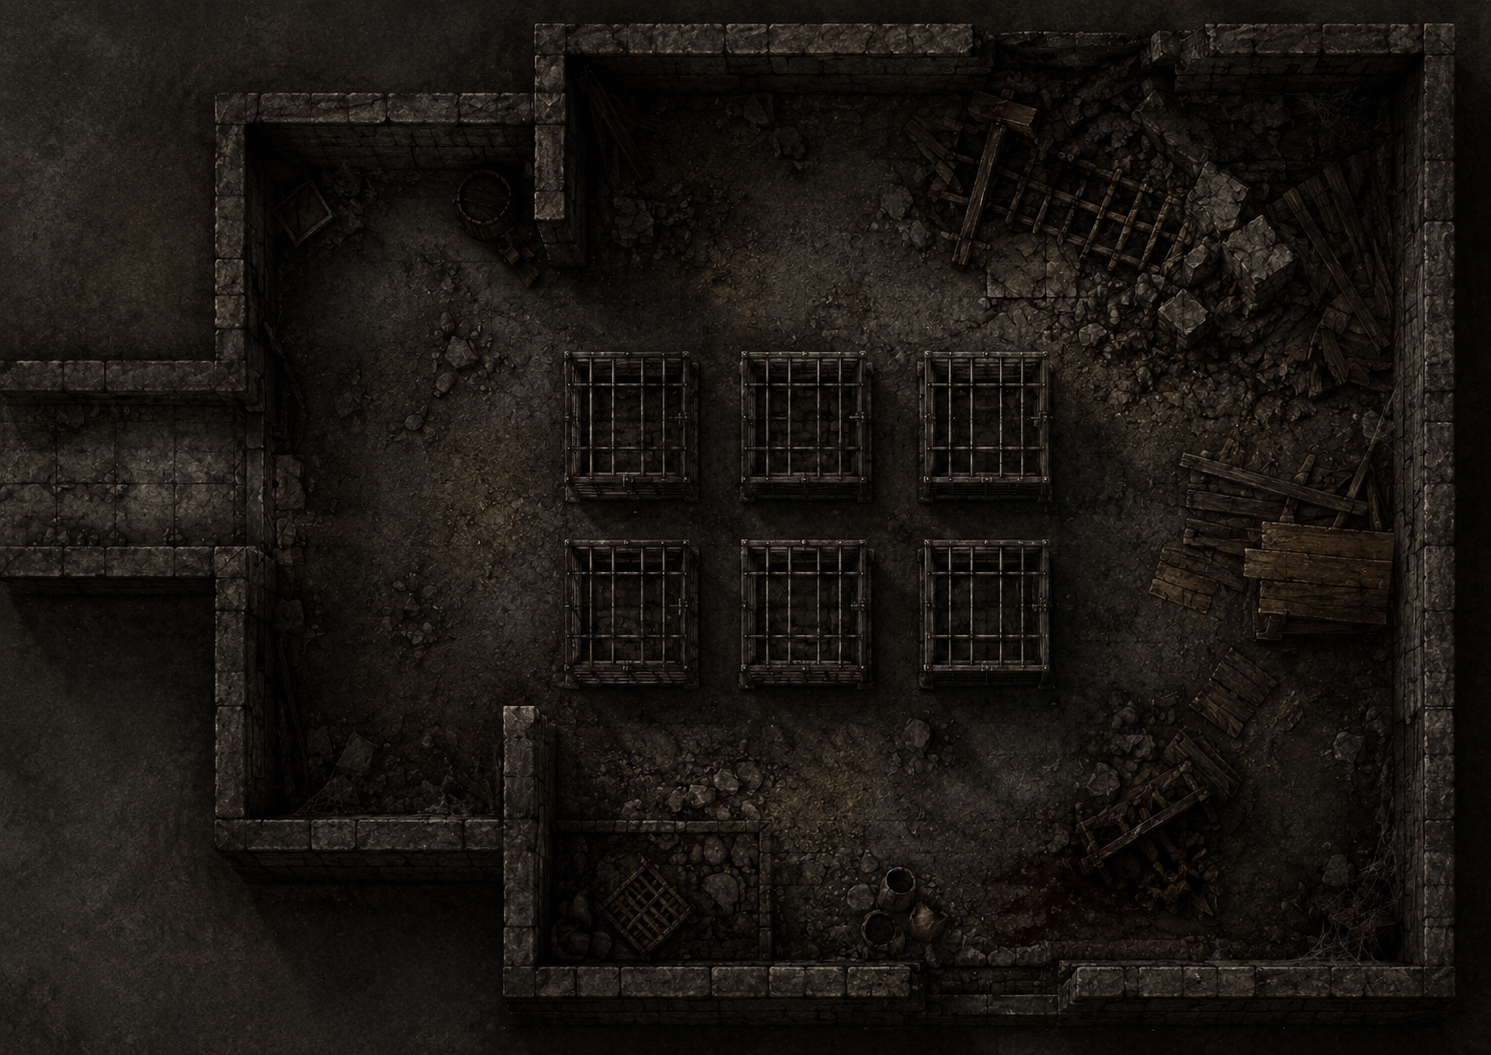
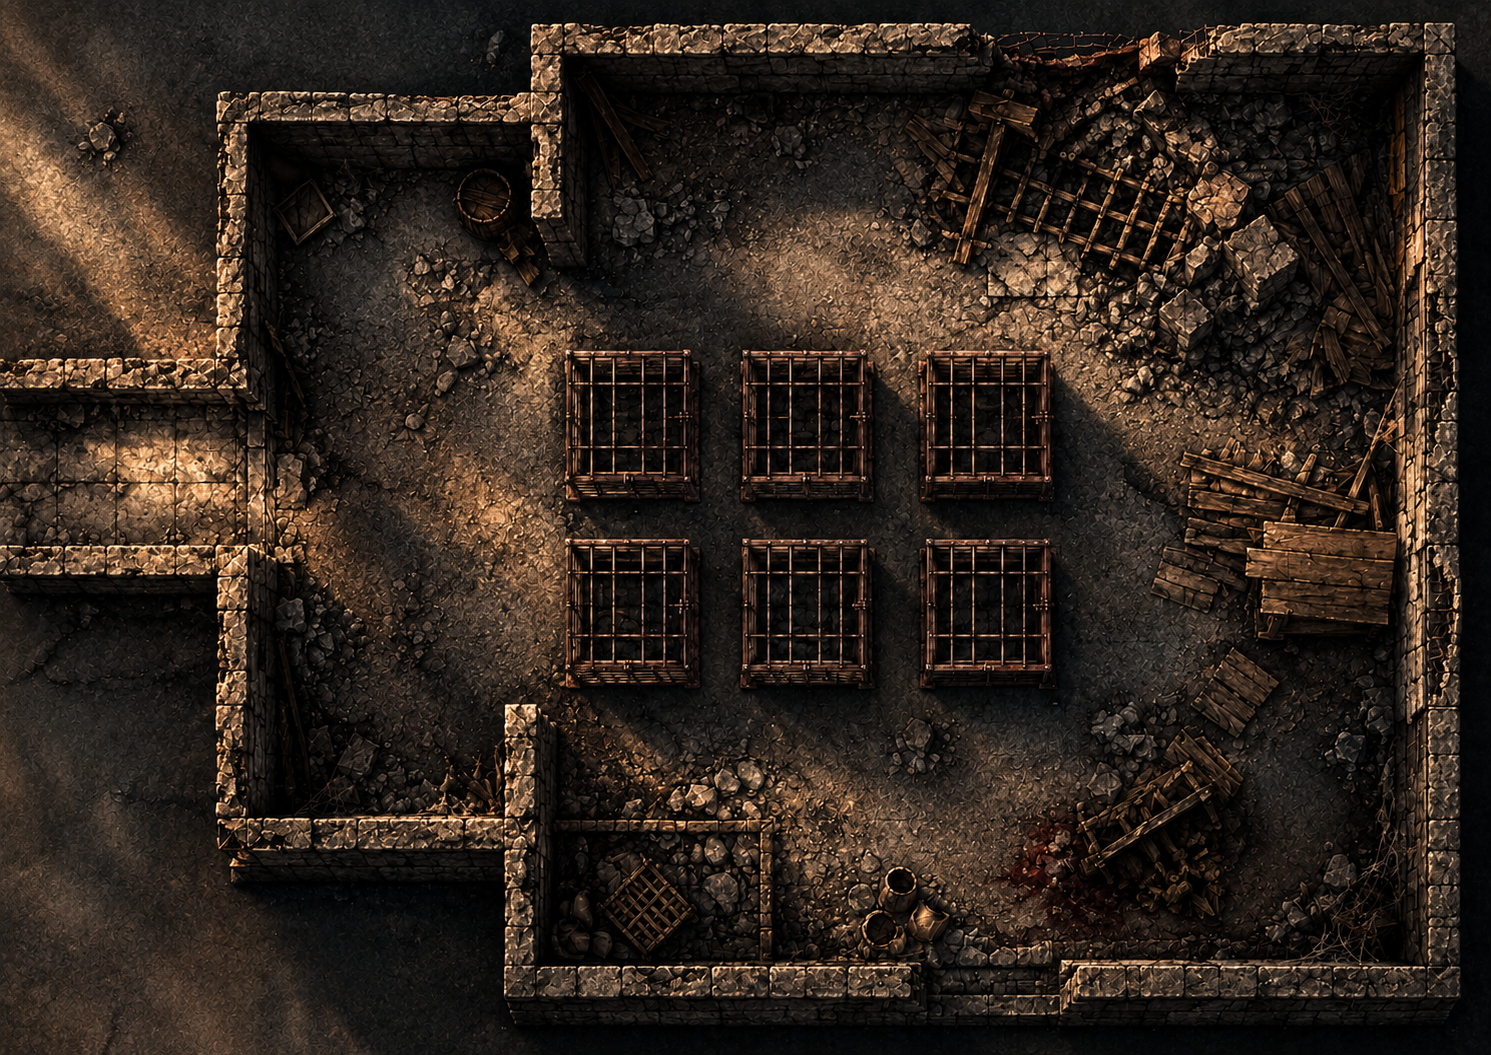
Battlemaps novos, revelacao encaixada na TV e selecao multipla de tokens
Mapas:
- A fabrica passa a usar m1-c7-fabrica.png; o .jpg foi apagado do
  repositorio e a cena apontava para ele, entao a imagem 404ava. A grade
  24x17.6 ja batia com a arte nova (0,12% de desvio) e a propria arte traz
  grade desenhada de ~1,5 m por quadrado, que confirma a escala.
- Ninho e pousada foram reexportados. Conferi ponto a ponto convertendo de
  volta para pixel contra a arte: a maioria continuava certa. Corrigi a
  mancha de sangue do ninho, e na pousada a sala comum (caia dentro de um
  quarto) e a varanda (caia fora da escada). A arte da pousada agora tem
  oito quartos, nao quatro — texto e comentario atualizados.

Revelacao na TV:
- A arte aparecia pela metade. A caixa era um grid de trilha automatica, e
  o `max-height:100%` da imagem nao tinha altura definida contra o que
  resolver: retrato (as artes sao 1024x1536 e parecidas) estourava a tela.
  Agora a caixa e bloco de altura definida e a img usa object-fit:contain.

Selecao multipla:
- ctrl/shift+clique junta pecas; arrastar qualquer uma move o grupo pelo
  mesmo deslocamento, mantendo a formacao. Clique no vazio desfaz.
- Clicar numa peca que ja esta no grupo nao desfaz a selecao, senao seria
  impossivel pegar o conjunto para arrastar.
- Lanterna, esconder na TV e remover passam a valer para o grupo; o novo
  valor sai da peca principal, para ligar tudo ou desligar tudo.
- Indicador na barra do mapa dizendo quantas pecas estao selecionadas.

diff --git a/assets/mesa.js b/assets/mesa.js
@@ -267,7 +267,7 @@ function montarMapa(caixa, cen, opcoes) {
     b.style.top = (t.y / v.h * 100) + "%";
     b.style.setProperty("--cor", corDoElemento(t.elemento));
     b.setAttribute("aria-label", t.nome);
-    if (o.selecionado === t.id) b.classList.add("sel");
+    if (o.selecao && o.selecao.indexOf(t.id) >= 0) b.classList.add("sel");
     if (t.oculto) b.classList.add("oculto");
 
     const ag = t.agenteId ? agentePorId(t.agenteId) : null;
@@ -304,8 +304,14 @@ function montarMapa(caixa, cen, opcoes) {
     if (o.arrastavel) {
       b.addEventListener("pointerdown", ev => {
         ev.preventDefault();
+        /* A origem fica registrada antes de avisar a seleção, porque
+           `aoSelecionar` dispara um render() que troca este botão por outro.
+           Como as variáveis de arrasto moram no módulo, elas atravessam o
+           repinte — é o mesmo motivo de `arrastando` já viver lá fora. */
         arrastando = t.id;
-        o.aoSelecionar && o.aoSelecionar(t.id);
+        arrastePtr = posNoMapa(caixa, v, ev);
+        arrasteRef = null;
+        o.aoSelecionar && o.aoSelecionar(t.id, ev.ctrlKey || ev.metaKey || ev.shiftKey);
         b.setPointerCapture(ev.pointerId);
       });
     } else b.tabIndex = -1;
@@ -334,6 +340,10 @@ function montarMapa(caixa, cen, opcoes) {
 }
 
 let arrastando = null;
+/* Ponto onde o arrasto começou e de onde cada peça do grupo saiu. Guardar a
+   origem é o que faz o grupo andar pelo mesmo deslocamento em vez de
+   empilhar todo mundo embaixo do cursor. */
+let arrastePtr = null, arrasteRef = null;
 
 /* Converte um evento de ponteiro para unidades de grid da vista. O retângulo
    medido é o do <svg>, não o da caixa: no palco a caixa pode sobrar dos lados
@@ -347,11 +357,15 @@ function posNoMapa(caixa, v, ev) {
   };
 }
 
-function ligarArraste(caixa, v, aoMover, aoSoltar) {
-  caixa.onpointerdown = null;
+function ligarArraste(caixa, v, aoMover, aoSoltar, aoFundo) {
+  /* Clique no vazio do mapa desfaz o grupo. Sem isso não haveria como voltar
+     a uma peça só depois de juntar várias. */
+  caixa.onpointerdown = aoFundo
+    ? ev => { if (!(ev.target.closest && ev.target.closest(".token,.pi,.veu"))) aoFundo(); }
+    : null;
   caixa.onpointermove = ev => { if (arrastando) aoMover(arrastando, posNoMapa(caixa, v, ev)); };
   caixa.onpointerup = caixa.onpointercancel = () => {
-    if (arrastando) { arrastando = null; aoSoltar && aoSoltar(); }
+    if (arrastando) { arrastando = null; arrastePtr = null; arrasteRef = null; aoSoltar && aoSoltar(); }
   };
 }
 
@@ -470,7 +484,12 @@ function fichaCurta(a) {
    ======================================================================= */
 
 let ehMestre = false;
+/* `selecionado` é a peça principal — a que os painéis de vínculo e de
+   monstro descrevem. `selecao` é o grupo inteiro e sempre contém a
+   principal; as ações em lote (esconder, lanterna, remover, arrastar) valem
+   para ele. */
 let selecionado = null;
+let selecao = [];
 let painelPonto = null;
 
 function telaMestre() {
@@ -516,6 +535,7 @@ function telaMestre() {
               <button class="btn sm" id="btnAgentes">Trazer agentes</button>
               <button class="btn sm" id="btnRepor">Repor posições</button>
               <button class="btn ghost sm" id="btnReporTudo">Repor todas as cenas</button>
+              <span class="hint" id="selInfo"></span>
               <div class="grow"></div>
               <div class="row" id="cores"></div>
             </div>
@@ -617,7 +637,7 @@ function telaMestre() {
   };
   $("#btnVeus").onclick = () => {
     modoVeu = !modoVeu;
-    if (modoVeu) { modoComodos = false; selecionado = null; } else veuSel = null;
+    if (modoVeu) { modoComodos = false; selecionado = null; selecao = []; } else veuSel = null;
     render();
   };
   $("#btnVeuTira").onclick = () => {
@@ -640,7 +660,7 @@ function telaMestre() {
     const novo = { id: uid(), arte: m.id, nome: m.nome, elemento: m.elemento || "neutro",
                    x: v.w / 2, y: v.h / 2 };
     tokensDaVista(v).push(novo);
-    selecionado = novo.id;
+    selecionado = novo.id; selecao = [novo.id];
     transmitir(); render();
   };
   $("#btnMostrarMonstro").onclick = () => {
@@ -657,21 +677,28 @@ function telaMestre() {
     t.morto = !t.morto;
     transmitir(); render();
   };
-  $("#btnLanterna").onclick = () => {
+  /* Lanterna e "esconder na TV" valem para o grupo todo, e o novo valor sai
+     do estado da peça principal — assim o botão liga tudo ou desliga tudo,
+     em vez de inverter cada peça para um lado. */
+  const emLote = (campo) => () => {
     if (!selecionado) return;
-    const t = tokensDaVista(vistaAtual()).find(t => t.id === selecionado);
-    if (t) { t.luz = !t.luz; transmitir(); render(); }
+    const lista = tokensDaVista(vistaAtual());
+    const alvo = lista.find(t => t.id === selecionado);
+    if (!alvo) return;
+    const valor = !alvo[campo];
+    (selecao.length ? selecao : [selecionado]).forEach(id => {
+      const t = lista.find(t => t.id === id);
+      if (t) t[campo] = valor;
+    });
+    transmitir(); render();
   };
-  $("#btnOculto").onclick = () => {
-    if (!selecionado) return;
-    const t = tokensDaVista(vistaAtual()).find(t => t.id === selecionado);
-    if (t) { t.oculto = !t.oculto; transmitir(); render(); }
-  };
+  $("#btnLanterna").onclick = emLote("luz");
+  $("#btnOculto").onclick = emLote("oculto");
 
   $("#btnVista").onclick = () => {
     const id = cenarioAtual().id;
     estado.usarDesenho[id] = !estado.usarDesenho[id];
-    selecionado = null; veuSel = null; transmitir(); render();
+    selecionado = null; selecao = []; veuSel = null; transmitir(); render();
   };
   $("#btnCalib").onclick = () => {
     const w = parseFloat(($("#calW").value || "").replace(",", "."));
@@ -752,12 +779,13 @@ function telaMestre() {
   $("#btnRemover").onclick = () => {
     if (!selecionado) return;
     const v = vistaAtual();
-    estado.tokens[v.chave] = tokensDaVista(v).filter(t => t.id !== selecionado);
-    selecionado = null; transmitir(); render();
+    const fora = selecao.length ? selecao : [selecionado];
+    estado.tokens[v.chave] = tokensDaVista(v).filter(t => fora.indexOf(t.id) < 0);
+    selecionado = null; selecao = []; transmitir(); render();
   };
   $("#btnRepor").onclick = () => {
     delete estado.tokens[vistaAtual().chave];
-    selecionado = null; transmitir(); render();
+    selecionado = null; selecao = []; transmitir(); render();
   };
   /* Escotilha de emergência. As peças ficam guardadas por vista no
      `localStorage`, então quando o repositório ganha arte nova ou perde um
@@ -767,7 +795,7 @@ function telaMestre() {
   $("#btnReporTudo").onclick = () => {
     if (!confirm("Remontar as peças de todas as cenas pelo repositório?\nBlocos, cômodos escondidos e calibração continuam como estão.")) return;
     estado.tokens = {};
-    selecionado = null; transmitir(); render();
+    selecionado = null; selecao = []; transmitir(); render();
   };
 
   const cores = $("#cores");
@@ -819,7 +847,7 @@ function montarLista() {
     b.onclick = () => {
       estado.cenarioId = c.id;
       estado.pontosAbertos = [];
-      selecionado = null; painelPonto = null; veuSel = null;
+      selecionado = null; selecao = []; painelPonto = null; veuSel = null;
       transmitir(); render();
     };
     box.appendChild(b);
@@ -883,6 +911,12 @@ function render() {
   $("#btnVista").textContent = estado.usarDesenho[cen.id] ? "Ver imagem" : "Ver desenho";
   $("#btnVista").classList.toggle("on", !estado.usarDesenho[cen.id]);
   const tSel = selecionado ? tokensDaVista(v).find(t => t.id === selecionado) : null;
+  /* Deixa claro quantas peças a próxima ação vai pegar, e ensina o gesto:
+     sem isso a seleção múltipla fica escondida. */
+  $("#selInfo").textContent = selecao.length > 1
+    ? selecao.length + " peças selecionadas — arraste uma para mover todas"
+    : (tSel ? "ctrl+clique para selecionar mais de uma" : "");
+
   const bo = $("#btnOculto");
   bo.disabled = !tSel;
   bo.classList.toggle("on", !!(tSel && tSel.oculto));
@@ -934,7 +968,22 @@ function render() {
     veuSel,
     aoMudar: render,
     selecionado,
-    aoSelecionar: id => { selecionado = id; render(); },
+    selecao,
+    aoSelecionar: (id, juntar) => {
+      if (juntar) {
+        const i = selecao.indexOf(id);
+        if (i >= 0) {
+          selecao.splice(i, 1);
+          if (selecionado === id) selecionado = selecao[selecao.length - 1] || null;
+        } else { selecao.push(id); selecionado = id; }
+      } else {
+        /* Clicar numa peça que já está no grupo mantém o grupo: é assim que
+           se pega o conjunto para arrastar sem desfazer a seleção. */
+        if (selecao.indexOf(id) < 0) selecao = [id];
+        selecionado = id;
+      }
+      render();
+    },
     aoTocarPonto: p => {
       painelPonto = painelPonto && painelPonto.n === p.n ? null : p;
       const i = estado.pontosAbertos.indexOf(p.n);
@@ -945,16 +994,35 @@ function render() {
   caixa.classList.toggle("veuando", modoVeu);
   if (modoVeu) ligarVeus(caixa, v, render);
   else ligarArraste(caixa, v, (id, pos) => {
-    const t = tokensDaVista(v).find(t => t.id === id);
-    if (!t) return;
-    t.x = pos.x; t.y = pos.y;
-    /* Procura pelo id, não pela posição na lista: peça oculta não é desenhada
-       no palco, então índice de lista e índice de botão deixaram de casar. */
-    const b = caixa.querySelector('[data-token="' + id + '"]');
-    if (b) { b.style.left = (pos.x / v.w * 100) + "%"; b.style.top = (pos.y / v.h * 100) + "%"; }
+    const lista = tokensDaVista(v);
+    /* Na primeira mexida anota de onde cada peça do grupo saiu. Daí em diante
+       todas andam pelo mesmo deslocamento, mantendo a formação — arrastar
+       peça a peça para debaixo do cursor amontoaria o grupo num ponto só. */
+    if (!arrasteRef) {
+      const alvos = selecao.indexOf(id) >= 0 ? selecao.slice() : [id];
+      arrasteRef = {
+        ptr: arrastePtr || pos,
+        itens: alvos.map(i => {
+          const t = lista.find(t => t.id === i);
+          return t ? { id: i, x: t.x, y: t.y } : null;
+        }).filter(Boolean)
+      };
+    }
+    const dx = pos.x - arrasteRef.ptr.x, dy = pos.y - arrasteRef.ptr.y;
+    arrasteRef.itens.forEach(o0 => {
+      const t = lista.find(t => t.id === o0.id);
+      if (!t) return;
+      t.x = clamp(o0.x + dx, 0, v.w);
+      t.y = clamp(o0.y + dy, 0, v.h);
+      /* Procura pelo id, não pela posição na lista: peça oculta não é
+         desenhada no palco, então índice de lista e de botão não casam. */
+      const b = caixa.querySelector('[data-token="' + o0.id + '"]');
+      if (b) { b.style.left = (t.x / v.w * 100) + "%"; b.style.top = (t.y / v.h * 100) + "%"; }
+    });
     const agora = Date.now();
     if (agora - ultimaTransmissao > 90) { ultimaTransmissao = agora; transmitir(); }
-  }, () => { transmitir(); render(); });
+  }, () => { transmitir(); render(); },
+    () => { if (selecao.length) { selecao = []; selecionado = null; render(); } });
 
   const det = $("#detPonto");
   det.innerHTML = "";

diff --git a/assets/cenarios.js b/assets/cenarios.js
@@ -797,9 +797,10 @@ const CENARIOS = [
     /* Pousada em imagem, 1392x1130 px. Escala pelas camas (2,15 x 1,35 m em
        117 x 75 px) e conferida na porta dupla da frente (1,35 m em 76 px):
        ~56 px por metro, o que dá 17,9 x 14,53 — a proporção do arquivo, senão
-       o `slice` cortaria a varanda de entrada. A arte tem quatro quartos de
-       uma cama cada, recepção e sala comum, tudo aceso por lampião. Interlúdio
-       de descanso: nenhuma escuridão por cima. */
+       o `slice` cortaria a varanda de entrada. A arte tem oito quartos de uma
+       cama cada em duas fileiras, o salão de estar à esquerda, os banheiros à
+       direita e a escada de entrada embaixo. Interlúdio de descanso: nenhuma
+       escuridão por cima. */
     imagem: {
       url: "/mapas/m1-interludio-pousada.png",
       w: 17.9, h: 14.53,
@@ -807,10 +808,10 @@ const CENARIOS = [
       credito: "battlemap de terceiros — uso na mesa",
       pontos: [
         { n: 1, x: 3.6, y: 3.6, nome: "Recepção", detalhe: "Ponto de encontro do grupo. Boa hora para revisitar o caso antes de decidir." },
-        { n: 2, x: 5.2, y: 9.4, nome: "Sala comum", detalhe: "Ações de interlúdio: descanso e recuperação antes da fábrica." },
+        { n: 2, x: 2.2, y: 8.5, nome: "Sala comum", detalhe: "Ações de interlúdio: descanso e recuperação antes da fábrica." },
         { n: 3, x: 3.7, y: 5.6, nome: "A decisão", detalhe: "Chamar Caio encerra a missão e pula direto para o Epílogo. Seguir investigando leva à fábrica abandonada." },
-        { n: 4, x: 8.6, y: 3.7, nome: "Os quartos", detalhe: "Quatro quartos, uma cama em cada. Divida o grupo como quiserem — quem dormir sozinho é quem o mestre pode usar para um pesadelo antes da fábrica." },
-        { n: 5, x: 5.7, y: 11.7, nome: "Varanda da frente", detalhe: "Onde os agentes chegam. O lampião aceso é a única luz do lado de fora — quem ficar de vigia passa a noite aqui." }
+        { n: 4, x: 8.6, y: 3.7, nome: "Os quartos", detalhe: "Oito quartos, uma cama em cada. Divida o grupo como quiserem — quem dormir sozinho é quem o mestre pode usar para um pesadelo antes da fábrica." },
+        { n: 5, x: 2.4, y: 11.6, nome: "Varanda da frente", detalhe: "Onde os agentes chegam. O lampião aceso é a única luz do lado de fora — quem ficar de vigia passa a noite aqui." }
       ],
       tokens: []
     },
@@ -875,12 +876,12 @@ const CENARIOS = [
       ]
     },
     imagem: {
-      url: "/mapas/m1-c7-fabrica.jpg",
+      url: "/mapas/m1-c7-fabrica.png",
       w: 24, h: 17.6,
       escuridao: 0.6,
       credito: "battlemap de terceiros — uso na mesa",
       pontos: [
-        { n: 1, x: 5.4, y: 7, nome: "Entrada", detalhe: "Os agentes cruzam o pátio das caçambas e entram por aqui. Tudo calmo — até demais. O barulho vem como se uma multidão corresse na direção deles, e por um segundo se vê só um par de olhos dourados no escuro." },
+        { n: 1, x: 4.9, y: 11.5, nome: "Entrada", detalhe: "Os agentes cruzam o pátio das caçambas e entram por aqui. Tudo calmo — até demais. O barulho vem como se uma multidão corresse na direção deles, e por um segundo se vê só um par de olhos dourados no escuro." },
         { n: 2, x: 13, y: 7.4, nome: "Esteiras e maquinário", detalhe: "Cobertura no meio do salão. Enferrujado e coberto pelo que sobrou do incêndio." },
         { n: 3, x: 19.5, y: 3.2, nome: "Escritório de vidro", detalhe: "Vidraça estilhaçada, cadeira caída. Documentos da fábrica, se você quiser adiantar parte do que está no diário." },
         { n: 4, x: 22.8, y: 2, nome: "Passarela e dutos", detalhe: "A passarela suspensa dá altura à criatura. É pela boca de duto no fim dela que ela leva as crianças — os agentes são grandes demais para passar e precisam seguir os dutos por fora." },
@@ -961,7 +962,7 @@ const CENARIOS = [
         { n: 2, x: 17, y: 10.3, nome: "Papéis sobre os destroços", detalhe: "Entradas de um diário sem identificação, empilhadas na madeira quebrada. Jairo não morreu no incêndio: ficou preso nos escombros, com medo constante de que o filho tivesse morrido nas chamas. Ele ouvia algo se aproximando, pedindo ajuda." },
         { n: 3, x: 17.2, y: 11.8, nome: "As duas consciências", detalhe: "Jairo viu o próprio filho no bicho papão e passou a cuidar dele. Começou a se confundir com a criatura, a ponto de não separar mais os dois no diário. As marcas nas costas das crianças são as mãos dele, e aparecem algum tempo antes do ataque." },
         { n: 4, x: 2.6, y: 6.9, nome: "Corredor de acesso", detalhe: "Caminho apertado desde a saída dos dutos, ~2 m de largura. Boa hora para tensão antes da revelação." },
-        { n: 5, x: 15.9, y: 13.1, nome: "Mancha de sangue", detalhe: "Fora do texto da missão, mas a arte entrega: Medicina DT 15 diz que é humano, antigo e de mais de uma pessoa. Não é de nenhuma das seis crianças — são de antes." },
+        { n: 5, x: 15.4, y: 12.25, nome: "Mancha de sangue", detalhe: "Fora do texto da missão, mas a arte entrega: Medicina DT 15 diz que é humano, antigo e de mais de uma pessoa. Não é de nenhuma das seis crianças — são de antes." },
         { n: 6, x: 17.6, y: 3.2, nome: "Teto desabado", detalhe: "A única luz do lugar entra por aqui. Escalar os escombros exige Atletismo DT 15 e é a saída mais rápida com as crianças — mas faz barulho." }
       ],
       tokens: [],

diff --git a/assets/mesa.css b/assets/mesa.css
@@ -370,10 +370,17 @@ body.palco{
    mapa. Só a arte no escuro, que é o ponto do susto. */
 .revelacao{
   position:fixed; inset:0; z-index:60; background:#05070C;
-  display:grid; place-items:center; padding:2.5vh 2.5vw;
+  padding:2.5vh 2.5vw;
 }
+/* A arte da maioria das criaturas e retrato (1024x1536, por exemplo). O
+   `max-height:100%` de antes nao segurava nada: a caixa era um grid de
+   trilha automatica, entao a altura do item vinha do proprio item e a
+   porcentagem nao tinha contra o que resolver. Resultado: retrato estourava
+   a tela e so aparecia a metade de cima. Agora a caixa e um bloco de altura
+   definida (fixed + inset), a img ocupa 100% dela e o object-fit:contain
+   encaixa a arte inteira dentro, sem corte. */
 .revelacao img{
-  max-width:100%; max-height:100%; width:auto; height:auto; object-fit:contain;
+  width:100%; height:100%; object-fit:contain; object-position:center;
   filter:drop-shadow(0 24px 70px rgba(0,0,0,.95));
   animation:revEntra .55s cubic-bezier(.2,.9,.3,1);
 }
